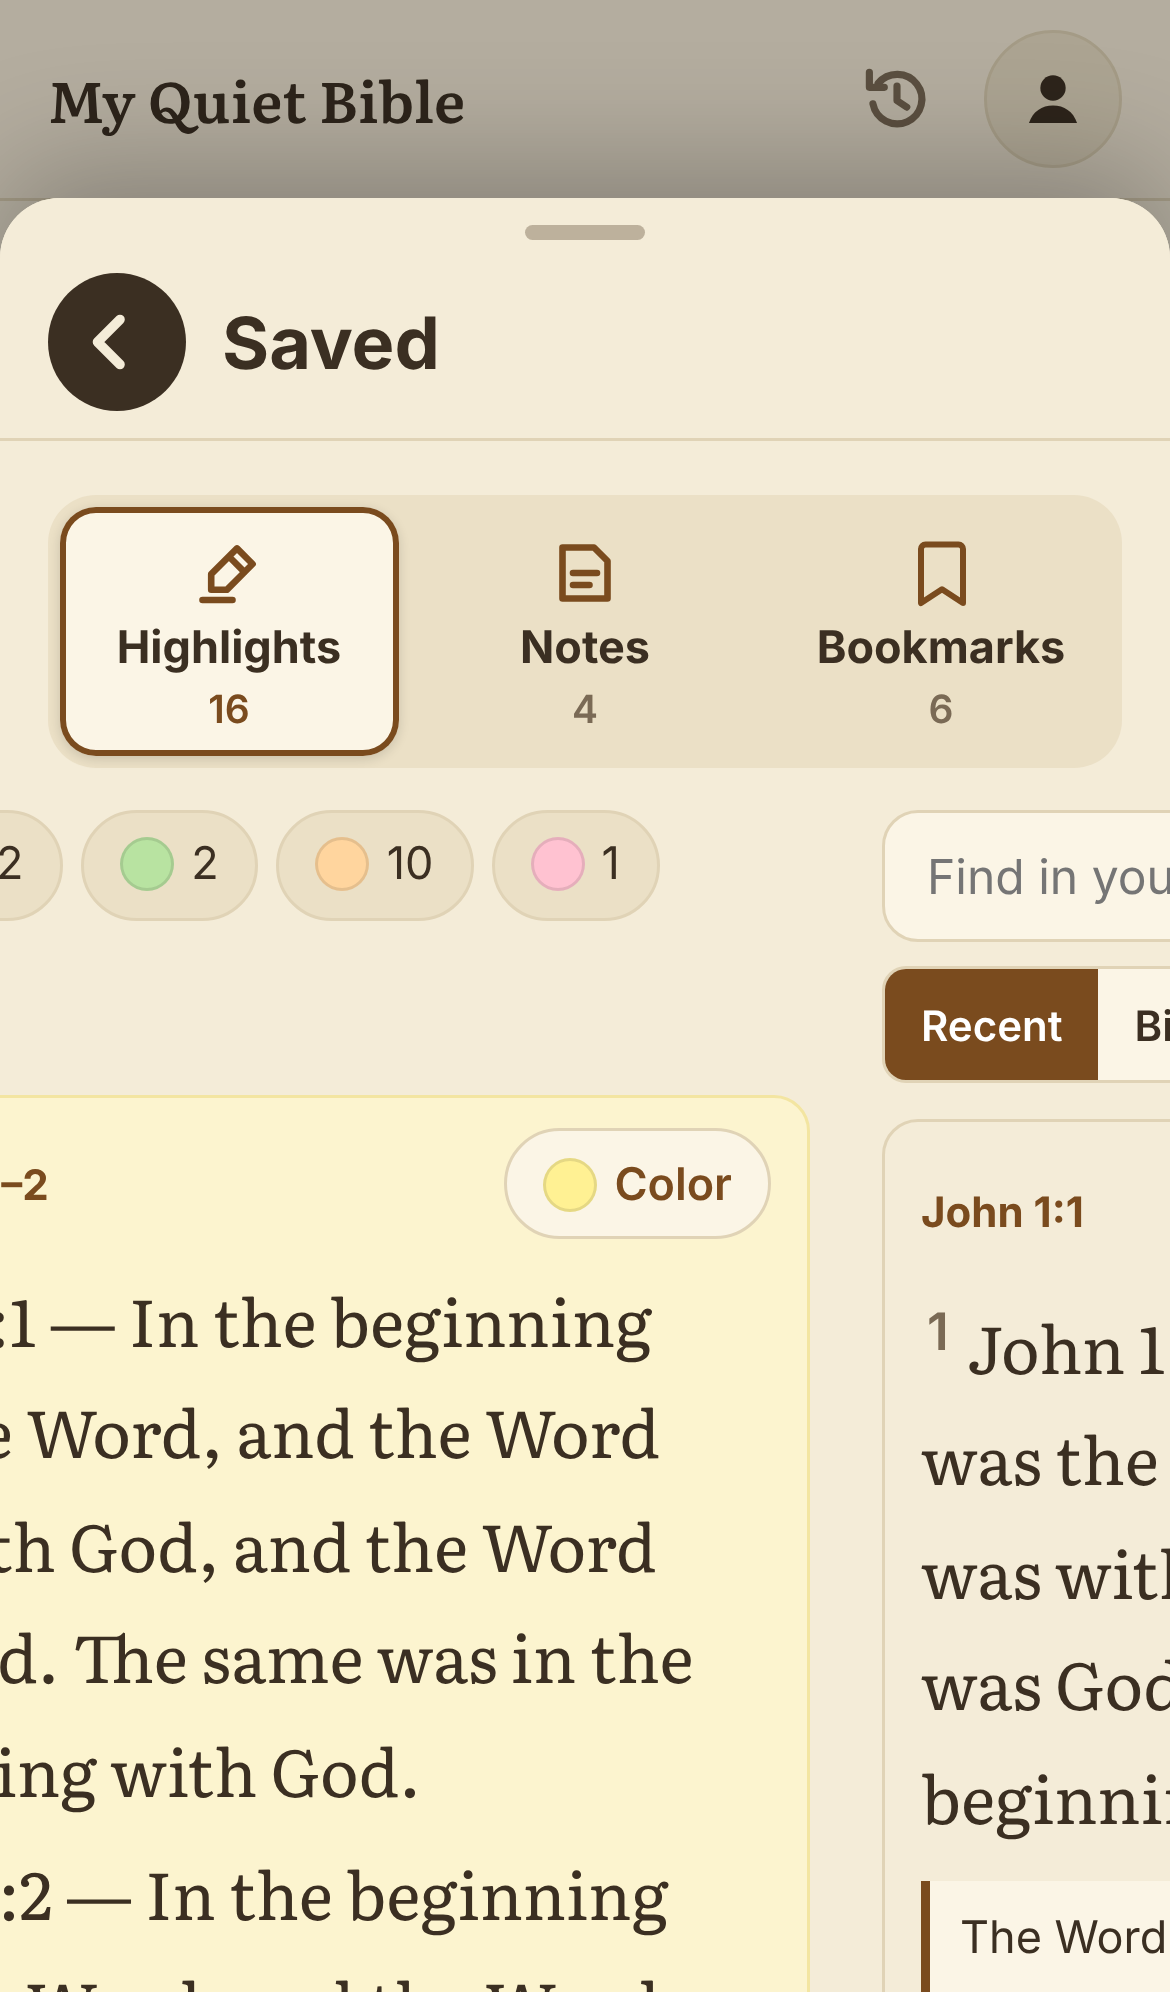
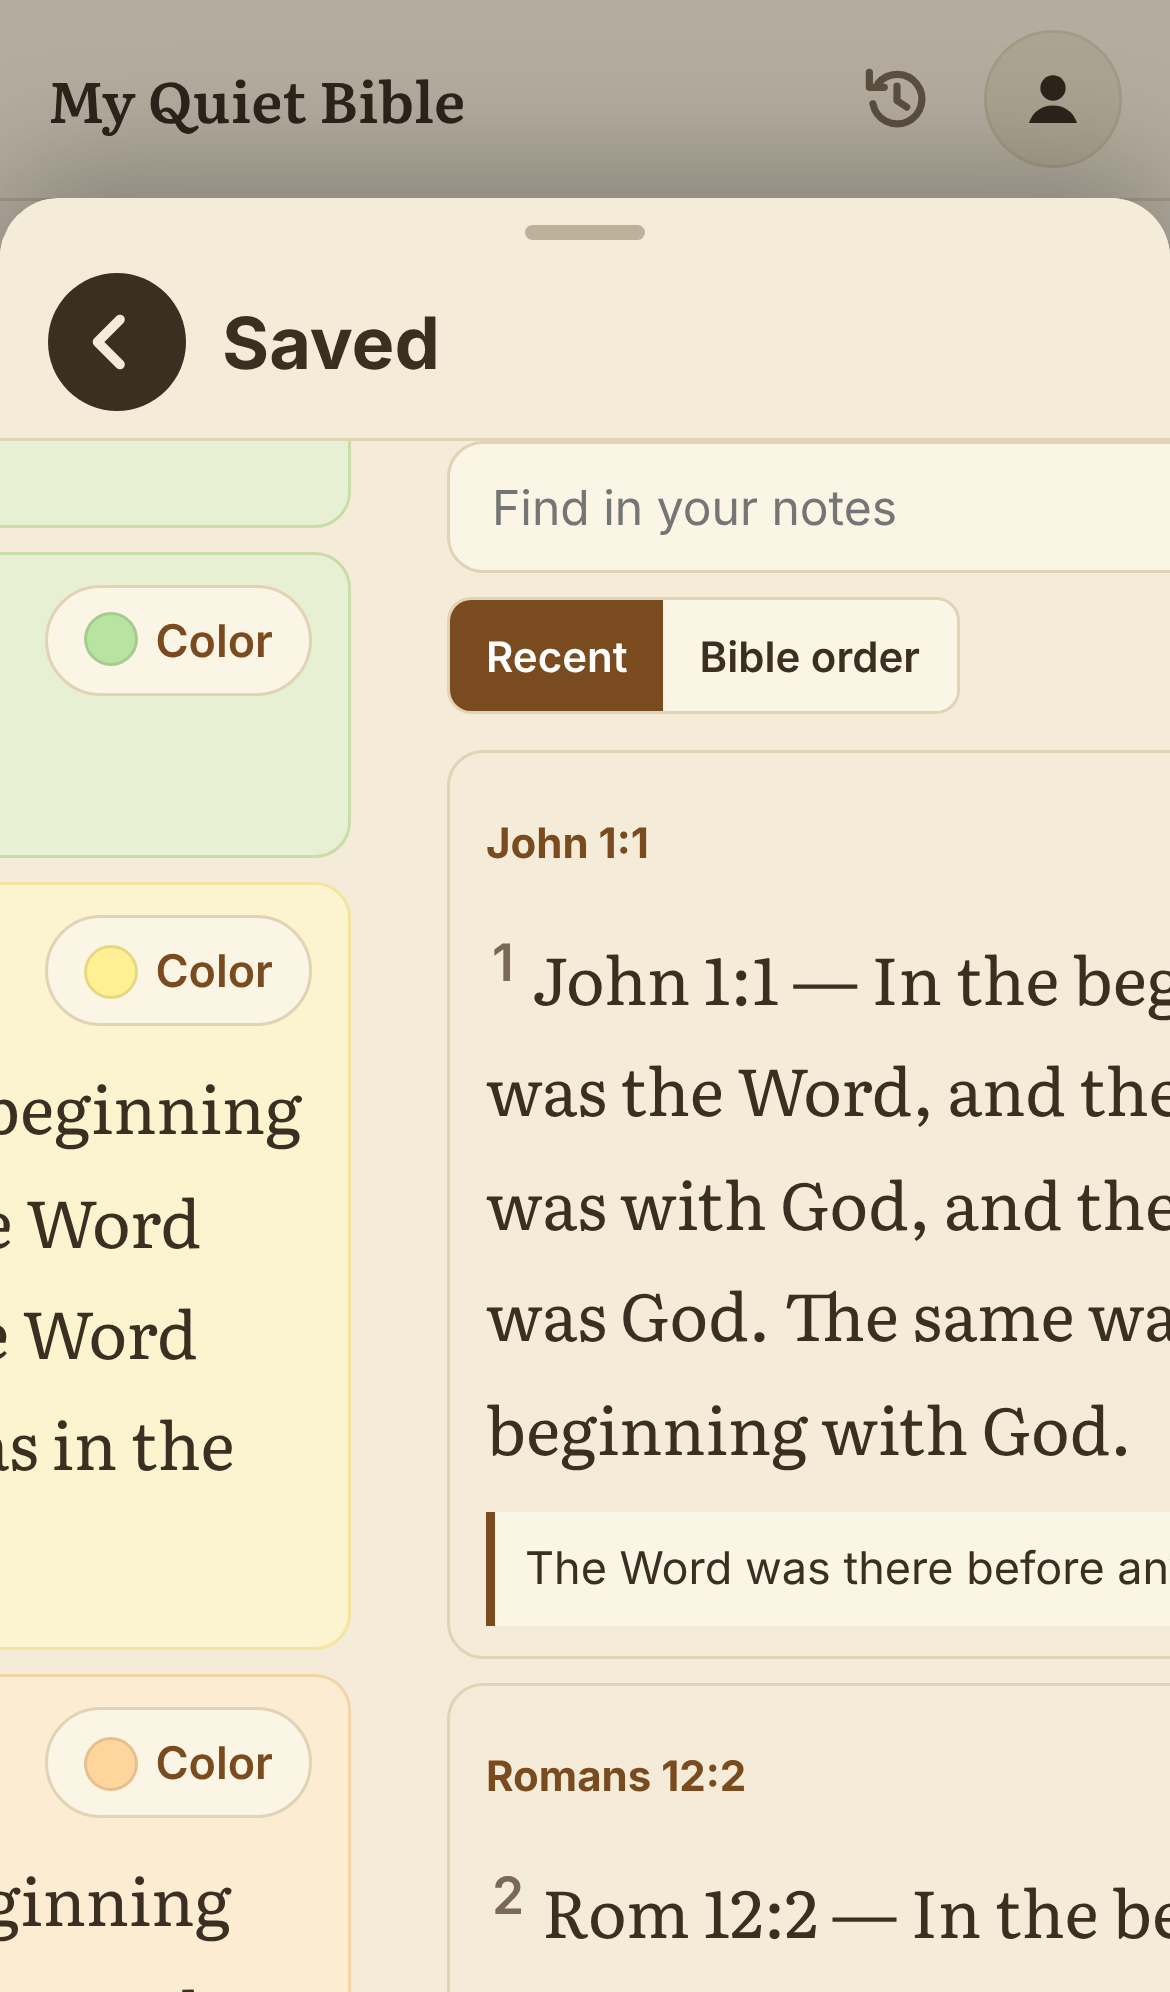
Saved: let the phone scroll the lists sideways, so a slow swipe never freezes
Jet found the swipe froze half way on slow drags, on iPhone and Pixel.
The hand-made drag followed touchmove events, which a phone stops sending
once it decides a slow drag is its own gesture, so the row was left where
it was. Now the three lists sit in a row that scrolls sideways with snap
points: the phone itself moves it with the finger, carries flicks on and
always settles on one list. The tab lights up as a list passes half way
and becomes yours when the row rests. Lists beside are drawn level with
the top of the view while the row moves and fold away when it rests.
Trackpads and tab taps use the same scroll.

Claude-Session: https://claude.ai/code/session_01L1zCCPJRHnQb3RpQ7vCnFA

diff --git a/src/saved.tsx b/src/saved.tsx
@@ -10,13 +10,10 @@ import { bookName } from './lib/books'
 import { plain } from './lib/text'
 import { readPath, useApp } from './state'
 import { N_, t } from './i18n'
-import { NO_SWIPE, swipeAxis, swipeGoes, swipeTo } from './lib/tabswipe'
 
 const PAGE = 60
 /** How many cards the lists beside yours show, ready to slide in. */
 const PEEK = 12
-/** The space between two lists while they slide. */
-const GAP = 24
 const TAB = 'plain-bible:saved-tab'
 type Tab = 'highlights' | 'notes' | 'bookmarks'
 const TABS: readonly Tab[] = ['highlights', 'notes', 'bookmarks']
@@ -82,20 +79,19 @@ export function Saved({ onImport }: { onImport?: () => void } = {}) {
     try { localStorage.setItem(TAB, to) } catch { /* private mode */ }
   }
 
-  // The three lists lie side by side like pages. A swipe drags the row of
-  // them with the finger, so the next list comes in under it as the one
-  // you're on goes out; let go and it carries on at the finger's speed and
-  // settles, and the tabs above follow. Tapping a tab slides the same way.
-  // A two-finger swipe on a trackpad does it too. Up and down stays a scroll.
-  const root = useRef<HTMLDivElement>(null), track = useRef<HTMLDivElement>(null), tabBar = useRef<HTMLDivElement>(null)
+  // The three lists lie side by side in a row that scrolls sideways, and
+  // snaps to one list at a time. The phone itself moves the row with the
+  // finger, carries a flick on and settles it, the same way it scrolls
+  // anything, so a slow drag can never stall half way. The tab lights up as
+  // a list passes half way, and becomes yours once the row comes to rest.
+  // Trackpad swipes and tab taps scroll the same row. Up and down stays the
+  // page's scroll.
+  const root = useRef<HTMLDivElement>(null), row = useRef<HTMLDivElement>(null), tabBar = useRef<HTMLDivElement>(null)
   // How far down the list beside was drawn, to keep it in place once it's yours.
   const landed = useRef<number>()
-  const busy = useRef(false)
-  const now = useRef({ tab, setTab, busy: !!editing || !!askBm })
-  now.current = { tab, setTab, busy: !!editing || !!askBm }
-  const uiRtl = () => document.documentElement.dir === 'rtl'
-  const still = () => matchMedia('(prefers-reduced-motion: reduce)').matches
-  /** What scrolls the lists: the Settings sheet, or the page. */
+  const nowTab = useRef(tab)
+  nowTab.current = tab
+  /** What scrolls the lists up and down: the Settings sheet, or the page. */
   const scroller = (): HTMLElement => {
     for (let x = root.current?.parentElement; x; x = x.parentElement) {
       const o = getComputedStyle(x).overflowY
@@ -103,156 +99,85 @@ export function Saved({ onImport }: { onImport?: () => void } = {}) {
     }
     return document.scrollingElement as HTMLElement
   }
-  /** Lists beside yours are drawn level with the top of what you see, so
-   *  far down a long list the next one still slides in from its top. */
-  const peekAt = () => {
-    const tr = track.current
-    if (!tr) return 0
-    const sc = scroller()
+  /** Before the row moves: the lists beside are drawn level with the top
+   *  of what you see (far down a long list the next one still comes in from
+   *  its top), and tall enough to fill the screen. */
+  const ready = () => {
+    const r = row.current
+    if (!r || r.classList.contains('moving')) return
+    const sc = scroller(), page = sc === document.scrollingElement
     // Below the bar that stays at the top: the app's, or the sheet's own.
-    const bar = sc === document.scrollingElement ? document.querySelector('header.top') : sc.querySelector('.settings-head')
-    const top = Math.max(0, sc === document.scrollingElement ? 0 : sc.getBoundingClientRect().top, bar?.getBoundingClientRect().bottom ?? 0)
-    const y = Math.max(0, Math.round(top - tr.getBoundingClientRect().top))
-    tr.style.setProperty('--peek-y', y + 'px')
-    return y
+    const bar = page ? document.querySelector('header.top') : sc.querySelector('.settings-head')
+    const top = Math.max(0, page ? 0 : sc.getBoundingClientRect().top, bar?.getBoundingClientRect().bottom ?? 0)
+    const y = Math.max(0, Math.round(top - r.getBoundingClientRect().top))
+    r.style.setProperty('--peek-y', y + 'px')
+    r.style.setProperty('--room', y + innerHeight + 'px')
+    r.classList.add('moving')
   }
-  const width = () => (track.current?.offsetWidth || innerWidth) + GAP
-  const move = (x: number, ms = 0, ease = 'cubic-bezier(.25, .8, .25, 1)') => {
-    const tr = track.current
-    if (!tr) return
-    tr.style.transition = ms ? `transform ${ms}ms ${ease}` : 'none'
-    tr.style.transform = x ? `translate3d(${x}px,0,0)` : ''
+  const rest = () => {
+    const r = row.current
+    if (!r) return
+    r.classList.remove('moving'); r.style.removeProperty('--peek-y'); r.style.removeProperty('--room')
   }
-  /** Carry on to the list beside, from `dx`, at about `v` px/ms. */
-  const settle = (to: Tab, dx: number, v: number) => {
-    const tr = track.current
-    const way = (TABS.indexOf(to) > TABS.indexOf(now.current.tab) ? -1 : 1) * (uiRtl() ? -1 : 1)
-    const target = way * width(), dist = Math.abs(target - dx)
-    // The curve starts about three times faster than its average, so this
-    // picks up at the speed the finger let go.
-    const ms = still() ? 0 : Math.round(Math.min(380, Math.max(180, 3.2 * dist / Math.max(Math.abs(v), .6))))
-    // The tab lights up as the list starts on its way.
-    tabBar.current?.querySelectorAll('[role="tab"]').forEach((b, i) => b.classList.toggle('on', TABS[i] === to))
-    busy.current = true
-    const y = parseFloat(tr?.style.getPropertyValue('--peek-y') || '0') || 0
-    let done = false
-    const land = () => { if (done) return; done = true; busy.current = false; landed.current = y; now.current.setTab(to) }
-    if (!ms || !tr) return land()
-    move(target, ms)
-    tr.addEventListener('transitionend', land, { once: true })
-    setTimeout(land, ms + 80)
-  }
-  const springBack = () => move(0, still() ? 0 : 260, 'cubic-bezier(.2, .9, .3, 1.1)')
   const pick = (to: Tab) => {
-    if (to === tab || busy.current) return
-    if (Math.abs(TABS.indexOf(to) - TABS.indexOf(tab)) === 1) { peekAt(); settle(to, 0, 1.2) }
-    // Two lists over: it simply comes up in place.
-    else { landed.current = undefined; setTab(to) }
+    const r = row.current, el = r?.children[TABS.indexOf(to)] as HTMLElement | undefined
+    if (!r || !el || to === tab) return
+    ready()
+    r.scrollTo({ left: el.offsetLeft - (r.firstElementChild as HTMLElement).offsetLeft, behavior: matchMedia('(prefers-reduced-motion: reduce)').matches ? 'auto' : 'smooth' })
   }
+  // The row shows your list: at first, and after a tab changes.
   useLayoutEffect(() => {
-    const tr = track.current, y = landed.current
+    const r = row.current, y = landed.current
     landed.current = undefined
-    if (!tr) return
-    move(0)
-    tr.style.removeProperty('--peek-y')
+    if (!r) return
+    rest()
+    const at = (r.children[TABS.indexOf(tab)] as HTMLElement | undefined)?.offsetLeft ?? 0
+    const first = (r.firstElementChild as HTMLElement | null)?.offsetLeft ?? 0
+    r.scrollLeft = at - first
     // The list that slid in was drawn level with the top of the view: keep it
     // just where it is now that it's the list on the page.
     if (y) scroller().scrollTop -= y
-  }, [tab])
+  }, [tab, !keys.length])
   useEffect(() => {
-    const el = root.current
-    if (!el) return
-    /** Not for us: typing, buttons that need a still finger, or a sheet
-     *  (like editing a note) opened from inside the list. */
-    const mine = (target: EventTarget | null) => {
-      const x = target as Element | null
-      if (!x?.closest || busy.current || now.current.busy || x.closest(NO_SWIPE)) return false
-      const sheet = x.closest('dialog, [role="dialog"], [role="alertdialog"], [aria-modal="true"]')
-      return !(sheet && el.contains(sheet))
+    const r = row.current
+    if (!r) return
+    let touching = 0, timer = 0
+    const step = () => { const a = r.children[0] as HTMLElement, b = r.children[1] as HTMLElement | undefined; return b ? b.offsetLeft - a.offsetLeft : r.clientWidth }
+    const index = () => Math.max(0, Math.min(TABS.length - 1, Math.round(r.scrollLeft / step())))
+    const light = (i: number) => tabBar.current?.querySelectorAll('[role="tab"]').forEach((b, j) => b.classList.toggle('on', j === i))
+    /** The row has come to rest on a list: it becomes yours. */
+    const settle = () => {
+      clearTimeout(timer)
+      if (touching) return
+      const i = index()
+      // Still gliding to its place.
+      if (Math.abs(r.scrollLeft - i * step()) > 2) { timer = window.setTimeout(settle, 120); return }
+      const to = TABS[i]
+      if (to === nowTab.current) { rest(); light(i); return }
+      landed.current = parseFloat(r.style.getPropertyValue('--peek-y')) || 0
+      setTab(to)
     }
-    /** Where the row is drawn for a drag of `dx`: past the first or last
-     *  list it only gives a little. */
-    const at = (dx: number) => swipeTo(TABS, now.current.tab, dx, uiRtl()) ? dx : dx / (1 + Math.abs(dx) / 120) * .5
-    let s: { x: number; y: number; axis?: 'x' | 'y'; dx: number; pts: [number, number][] } | undefined
-    const stop = () => {
-      s = undefined
-      removeEventListener('touchmove', onMove); removeEventListener('touchend', end); removeEventListener('touchcancel', cancel)
+    const onScroll = () => {
+      ready()
+      light(index())
+      clearTimeout(timer)
+      timer = window.setTimeout(settle, 140)
     }
-    const onMove = (e: TouchEvent) => {
-      if (!s) return
-      if (e.touches.length > 1) return cancel()
-      const p = e.touches[0], dx = p.clientX - s.x
-      if (!s.axis) {
-        s.axis = swipeAxis(dx, p.clientY - s.y)
-        if (s.axis === 'y') return stop()
-        if (!s.axis) return
-        // Start from where the finger is now, so the list doesn't jump.
-        s.x = p.clientX; peekAt()
-      }
-      // Sideways: the lists follow the finger and the page doesn't scroll.
-      if (e.cancelable) e.preventDefault()
-      s.dx = p.clientX - s.x
-      s.pts.push([e.timeStamp, p.clientX]); if (s.pts.length > 6) s.pts.shift()
-      move(at(s.dx))
+    const down = (e: TouchEvent) => { touching = e.touches.length; ready() }
+    const up = (e: TouchEvent) => { touching = e.touches.length; clearTimeout(timer); timer = window.setTimeout(settle, 140) }
+    const wheel = (e: WheelEvent) => { if (Math.abs(e.deltaX) > Math.abs(e.deltaY)) ready() }
+    r.addEventListener('scroll', onScroll, { passive: true })
+    r.addEventListener('scrollend', settle)
+    r.addEventListener('touchstart', down, { passive: true })
+    r.addEventListener('touchend', up, { passive: true })
+    r.addEventListener('touchcancel', up, { passive: true })
+    r.addEventListener('wheel', wheel, { passive: true })
+    return () => {
+      clearTimeout(timer)
+      r.removeEventListener('scroll', onScroll); r.removeEventListener('scrollend', settle)
+      r.removeEventListener('touchstart', down); r.removeEventListener('touchend', up); r.removeEventListener('touchcancel', up)
+      r.removeEventListener('wheel', wheel)
     }
-    const end = (e: TouchEvent) => {
-      const was = s
-      stop()
-      if (was?.axis !== 'x') return
-      // The finger's speed over its last few moves, in px/ms.
-      const recent = was.pts.filter(([t]) => e.timeStamp - t < 100)
-      const v = recent.length > 1 ? (recent[recent.length - 1][1] - recent[0][1]) / Math.max(1, recent[recent.length - 1][0] - recent[0][0]) : 0
-      const to = swipeTo(TABS, now.current.tab, was.dx, uiRtl())
-      if (to && swipeGoes(was.dx, v, width())) settle(to, was.dx, v)
-      else springBack()
-    }
-    // Taken away (a call, a system swipe): the list goes back.
-    const cancel = () => { const was = s; stop(); if (was?.axis === 'x') springBack() }
-    const down = (e: TouchEvent) => {
-      stop()
-      if (e.touches.length !== 1 || !mine(e.target)) return
-      const p = e.touches[0]
-      s = { x: p.clientX, y: p.clientY, dx: 0, pts: [] }
-      addEventListener('touchmove', onMove, { passive: false })
-      addEventListener('touchend', end)
-      addEventListener('touchcancel', cancel)
-    }
-
-    // Trackpad: a gesture is a scroll or a swipe, decided from its first few
-    // pixels. After a slide the Mac keeps sending the swipe's fading glide;
-    // that's ignored until it stops, or a new, stronger swipe begins.
-    let w = { sx: 0, sy: 0, px: 0, axis: '', last: 0, done: false, low: 0, peak: 0, timer: 0 }
-    const wheel = (e: WheelEvent) => {
-      const t = Date.now(), ax = Math.abs(e.deltaX), ay = Math.abs(e.deltaY)
-      if (t - w.last > 200) { clearTimeout(w.timer); w = { sx: 0, sy: 0, px: 0, axis: '', last: t, done: false, low: 0, peak: 0, timer: 0 } }
-      w.last = t
-      if (w.done) {
-        if (!busy.current && ax > Math.max(w.low * 2, w.low + 6) && w.low <= w.peak / 2) { w.done = false; w.px = 0; w.peak = 0; w.axis = 'x'; peekAt() }
-        else { w.low = Math.min(w.low, ax); if (w.axis === 'x') e.preventDefault(); return }
-      }
-      if (!w.axis) {
-        if (!mine(e.target)) return
-        w.sx += ax; w.sy += ay
-        if (w.sx + w.sy < 12) return
-        w.axis = w.sx > w.sy * 2 ? 'x' : 'y'
-        if (w.axis === 'x') peekAt()
-      }
-      if (w.axis !== 'x') return
-      e.preventDefault()
-      w.px += e.deltaX; w.peak = Math.max(w.peak, ax)
-      const dx = -w.px, to = swipeTo(TABS, now.current.tab, dx, uiRtl())
-      move(at(dx))
-      clearTimeout(w.timer)
-      // The fingers lifted without going far enough: the list goes back.
-      w.timer = window.setTimeout(() => { if (!w.done) springBack(); w.axis = ''; w.px = 0 }, 160)
-      if (to && Math.abs(dx) > Math.min(el.offsetWidth * .22, 100)) {
-        w.done = true; w.low = w.peak; clearTimeout(w.timer)
-        settle(to, dx, 1.2)
-      }
-    }
-    el.addEventListener('touchstart', down, { passive: true })
-    el.addEventListener('wheel', wheel, { passive: false })
-    return () => { el.removeEventListener('touchstart', down); el.removeEventListener('wheel', wheel); clearTimeout(w.timer); stop() }
   }, [!keys.length])
   useEffect(() => setLimit(PAGE), [color, find, recent])
 
@@ -456,7 +381,7 @@ export function Saved({ onImport }: { onImport?: () => void } = {}) {
   }
 
   return (
-    <div class="saved saved-swipe" ref={root}>
+    <div class="saved" ref={root}>
       {!onImport && <h1>{t('Saved')}</h1>}
       <div class="saved-tabs" role="tablist" ref={tabBar}>
         {tabs.map(([id, label, icon]) => (
@@ -467,14 +392,10 @@ export function Saved({ onImport }: { onImport?: () => void } = {}) {
       </div>
       {missing && <p class="note">{t('{version} isn’t saved on this device yet, so the verses can’t be shown. Connect to the internet once and they will be.', { version })}</p>}
       {undo && <div class="saved-undo" role="status"><span>{undo.what}</span><button onClick={putBack}>{t('Undo')}</button></div>}
-      <div class="saved-track" ref={track}>
-        {TABS.map((id, i) => {
-          const d = i - TABS.indexOf(shownTab)
-          if (Math.abs(d) > 1) return null
-          return d === 0
-            ? <div key={id} class="saved-page">{bodyOf(id, true)}</div>
-            : <div key={id} class="saved-page beside" style={{ '--side': uiRtl() ? -d : d }} inert aria-hidden="true">{bodyOf(id, false)}</div>
-        })}
+      <div class="saved-pages" ref={row} dir="ltr">
+        {TABS.map(id => id === shownTab
+          ? <div key={id} class="saved-page" dir="auto">{bodyOf(id, true)}</div>
+          : <div key={id} class="saved-page beside" dir="auto" inert aria-hidden="true">{bodyOf(id, false)}</div>)}
       </div>
       {editing && (() => {
         const r = parseKey(editing.key)

diff --git a/src/styles.css b/src/styles.css
@@ -497,16 +497,20 @@ mark.hl-part { color: inherit; background: color-mix(in srgb, var(--hl) var(--hl
 
 /* ---- saved ---- */
 .saved { max-width: 46rem; margin: 0 auto; }
-/* The lists lie side by side and slide between tabs; up and down (and
-   pinching to zoom) stay the browser's. On a phone they slide in from the
-   screen's edge; on a wide screen, from the column's. */
-.saved-swipe { touch-action: pan-y pinch-zoom; }
-main:has(.saved-swipe) { overflow-x: clip; }
-.settings-sheet:has(.saved-swipe) { overflow-x: hidden; }
-@media (min-width: 720px) { .saved-swipe { overflow-x: clip; } }
-.saved-track { position: relative; will-change: transform; }
-.saved-page.beside { position: absolute; top: 0; left: 0; right: 0; pointer-events: none;
-  transform: translate3d(calc(var(--side) * (100% + 24px)), var(--peek-y, 0px), 0); }
+/* The lists lie side by side in a row that scrolls sideways and snaps to
+   one list at a time; the phone moves it, so it follows the finger and
+   always settles. The row reaches the screen's edges, so the next list
+   slides in from there. Lists beside yours are only as tall as the screen
+   while the row moves, and fold away when it rests, so a short list has no
+   empty space under it. */
+.saved-pages { display: flex; align-items: flex-start; gap: 32px; overflow-x: auto; overflow-y: hidden;
+  scroll-snap-type: x mandatory; overscroll-behavior-x: contain; -webkit-overflow-scrolling: touch;
+  margin: 0 -16px; padding: 0 16px; scroll-padding: 0 16px; scrollbar-width: none; }
+.saved-pages::-webkit-scrollbar { display: none; }
+.saved-page { flex: 0 0 100%; min-width: 0; scroll-snap-align: start; scroll-snap-stop: always; }
+.saved-page.beside { max-height: 0; overflow: hidden; }
+.saved-pages.moving .saved-page.beside { max-height: none; height: var(--room, 100vh); }
+.saved-pages.moving .saved-page.beside > * { transform: translateY(var(--peek-y, 0px)); }
 .saved-tabs { scroll-margin-top: 72px; }
 .chips { display: flex; flex-wrap: wrap; gap: 6px; margin: 4px 0 16px; }
 .chip.on { background: var(--accent); color: var(--accent-ink); }

diff --git a/src/lib/savedswipe.test.ts b/src/lib/savedswipe.test.ts
@@ -1,0 +1,23 @@
+import { describe, expect, it } from 'vitest'
+import { readFileSync } from 'node:fs'
+
+// Swiping between Highlights, Notes and Bookmarks is the browser's own
+// sideways scrolling with snap points, so it follows the finger and always
+// settles on a list (a hand-made drag could stall half way on a slow swipe).
+const css = readFileSync(new URL('../styles.css', import.meta.url), 'utf8')
+const rule = (sel: string) => css.match(new RegExp(sel.replace(/[.*]/g, '\\$&') + '\\s*\\{([^}]*)\\}'))?.[1] ?? ''
+
+describe('swiping between saved lists', () => {
+  it('is a sideways scroll that snaps to one list at a time', () => {
+    expect(rule('.saved-pages')).toMatch(/overflow-x:\s*auto/)
+    expect(rule('.saved-pages')).toMatch(/scroll-snap-type:\s*x mandatory/)
+    expect(rule('.saved-page')).toMatch(/scroll-snap-stop:\s*always/)
+  })
+  it('never blocks the browser from moving it', () => {
+    expect(css).not.toMatch(/\.saved-swipe\s*\{[^}]*touch-action/)
+    expect(rule('.saved-pages')).not.toMatch(/touch-action/)
+  })
+  it('folds the lists beside away when resting, so short lists have no gap under them', () => {
+    expect(rule('.saved-page.beside')).toMatch(/max-height:\s*0/)
+  })
+})
